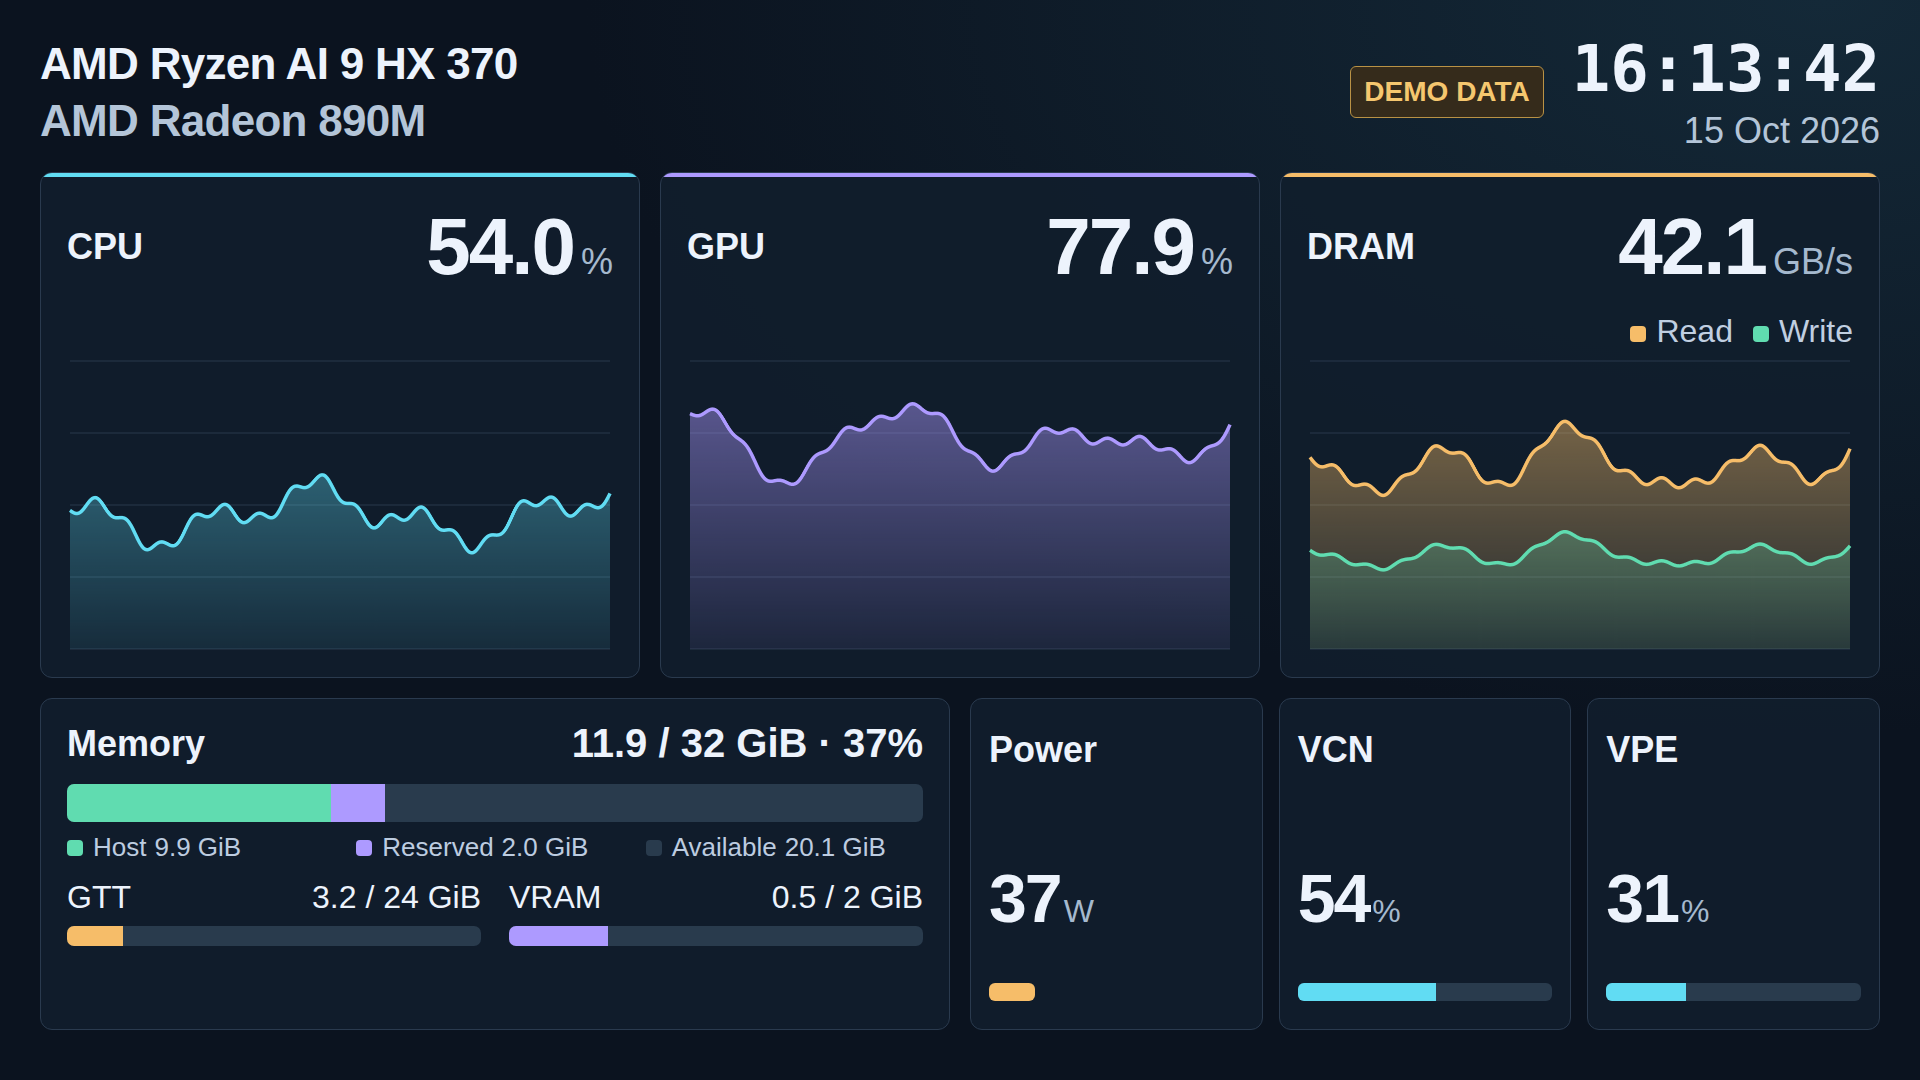
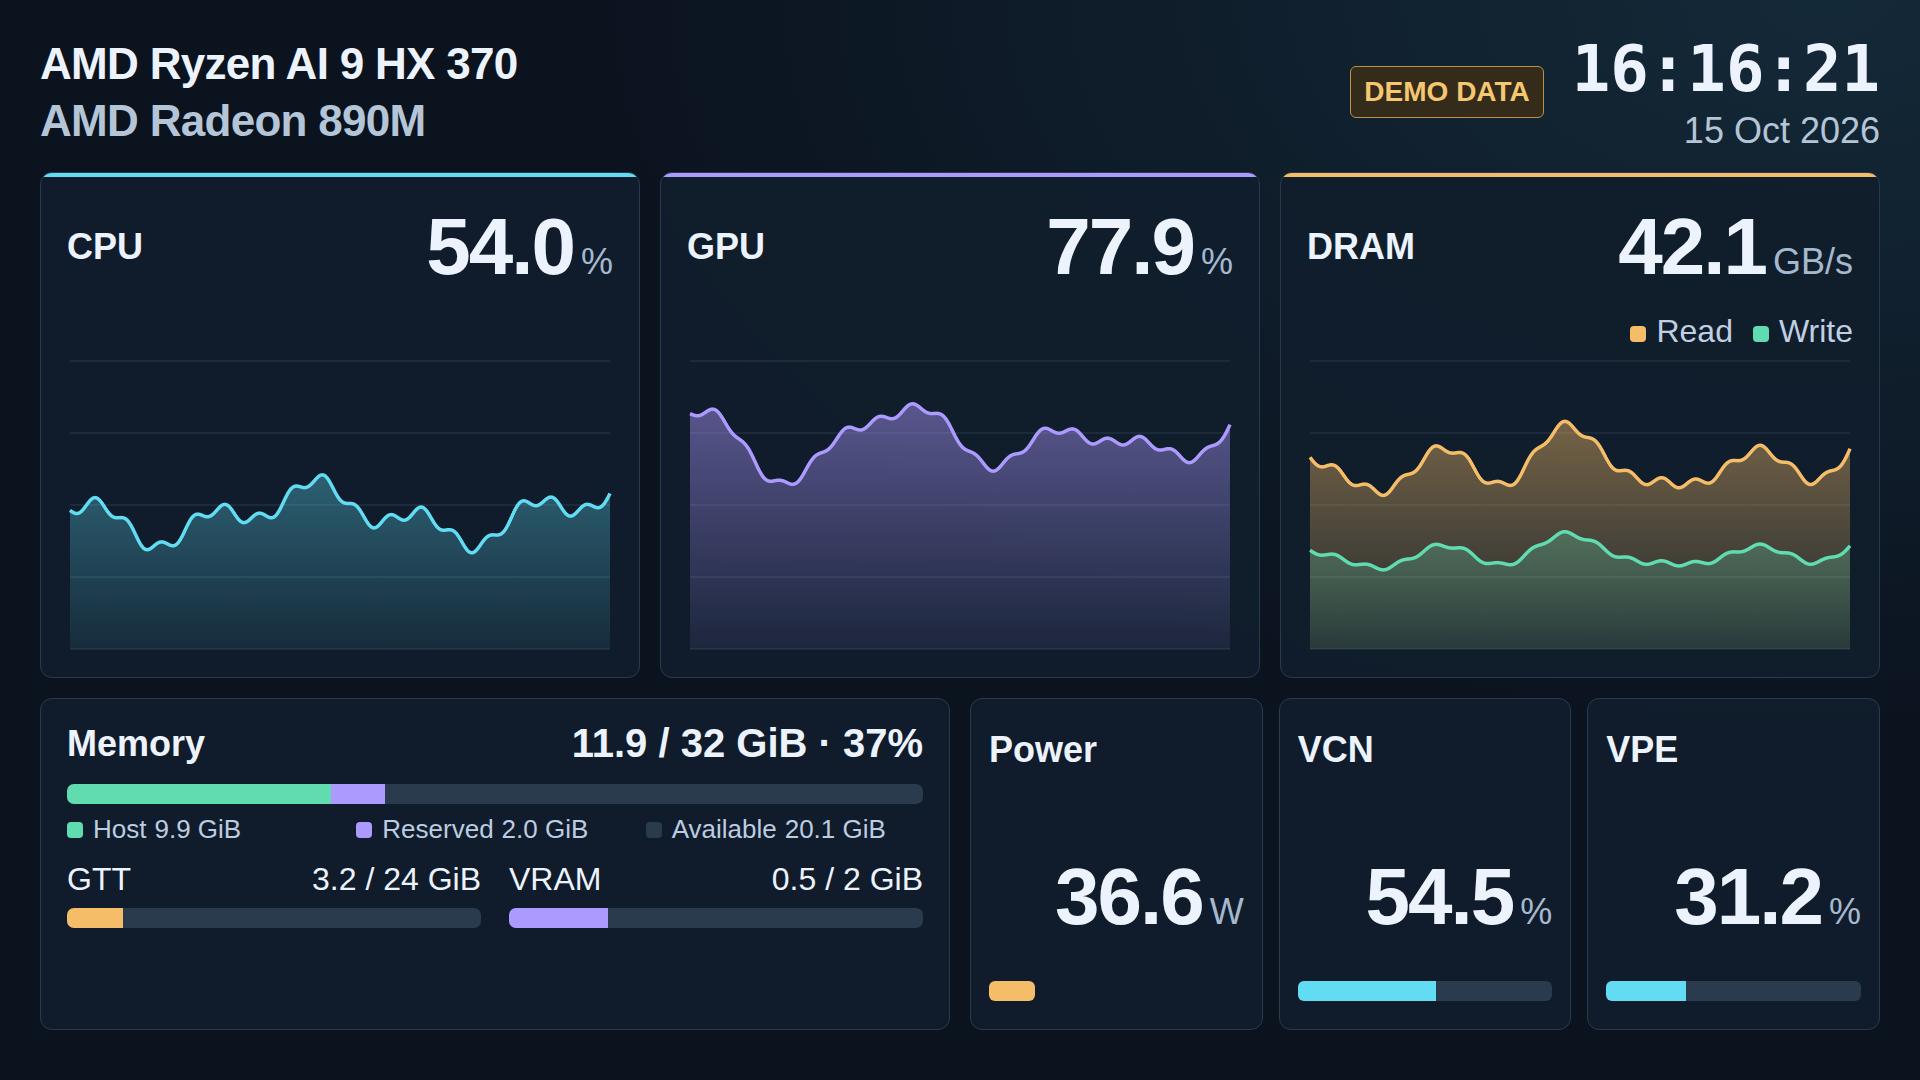
Unify dashboard bar heights and engine numeric formatting

diff --git a/examples/resource-dashboard/index.html b/examples/resource-dashboard/index.html
@@ -5,7 +5,7 @@
 <meta name="viewport" content="width=device-width, initial-scale=1">
 <title>AMD APU · Resource Monitor</title>
 <style>
-:root { color-scheme: dark; font-family: Inter, "Segoe UI", sans-serif; background: #080e16; color: #edf3fc; }
+:root { --bar-height: 20px; color-scheme: dark; font-family: Inter, "Segoe UI", sans-serif; background: #080e16; color: #edf3fc; }
 * { box-sizing: border-box; }
 body { margin: 0; }
 button, select { font: inherit; color: #edf3fc; background: #162333; border: 1px solid #35465c; border-radius: 6px; padding: 8px 12px; cursor: pointer; }
@@ -40,7 +40,7 @@ canvas { display: block; width: 100%; height: 300px; }
 .memory { height: 332px; padding: 22px 26px; }
 .memory-heading { display: flex; align-items: center; justify-content: space-between; margin-bottom: 18px; }
 #memory-value { font-size: 40px; font-weight: 550; font-variant-numeric: tabular-nums; }
-.meter { display: flex; height: 38px; background: #293b4d; border-radius: 7px; overflow: hidden; }
+.meter { display: flex; height: var(--bar-height); background: #293b4d; border-radius: 7px; overflow: hidden; }
 .meter > div { height: 100%; flex: 0 0 auto; width: 0; }
 .meter.unavailable { background: repeating-linear-gradient(135deg, #293b4d 0 12px, #1a293a 12px 24px); }
 #host-meter { background: #60dcb0; } #reserved-meter { background: #ad9aff; }
@@ -49,17 +49,15 @@ canvas { display: block; width: 100%; height: 300px; }
 .memory-legend .amount { font-weight: 500; }
 .gpu-memory { display: grid; grid-template-columns: 1fr 1fr; gap: 28px; }
 .gpu-memory .row { display: flex; justify-content: space-between; align-items: center; margin-bottom: 10px; font-size: 32px; font-variant-numeric: tabular-nums; }
-.gpu-memory .meter { height: 20px; }
 #gtt-meter { background: #f6bd69; } #vram-meter { background: #ad9aff; }
 .engines { display: grid; grid-template-columns: repeat(3, 1fr); gap: 16px; }
 .engine { height: 332px; padding: 28px 18px; display: flex; flex-direction: column; justify-content: space-between; }
 .engine h2 { line-height: 1.25; min-height: 86px; }
-.engine .number { font-size: 68px; letter-spacing: -2px; }
-.engine .number small { font-size: 32px; margin-left: 3px; }
-.engine-meter { height: 18px; background: #293b4d; border-radius: 6px; overflow: hidden; }
+.engine .number { width: 100%; text-align: right; }
+.engine-meter { height: var(--bar-height); background: #293b4d; border-radius: 6px; overflow: hidden; }
 .engine-meter div { height: 100%; width: 0; background: #61dcf3; }
 .engine-meter.unavailable { background: repeating-linear-gradient(135deg, #293b4d 0 10px, #1a293a 10px 20px); }
-.power-mark { height: 18px; width: 46px; border-radius: 6px; background: #f6bd69; }
+.power-mark { height: var(--bar-height); width: 46px; border-radius: 6px; background: #f6bd69; }
 body.video .controls { display: none; }
 </style>
 </head>
@@ -205,12 +203,12 @@ body.video .controls { display: none; }
     $('gpu-value').textContent = format(s.gpuPct);
     $('dram-value').textContent = format(total);
     memory(s);
-    $('socket-value').textContent = format(s.socketW, '', 0);
+    $('socket-value').textContent = format(s.socketW, '', 1);
     for (const engine of ['vcn', 'vpe']) {
       const value = s[engine + 'Pct'];
       const known = valid(value) && value >= 0 && value <= 100;
-      $(engine + '-value').textContent = format(known ? value : null, '', 0);
-      meter(engine + '-track', [[engine + '-meter', value]], known, engine.toUpperCase() + ' utilization: ' + (known ? format(value, '%', 0) : 'unavailable'));
+      $(engine + '-value').textContent = format(known ? value : null, '', 1);
+      meter(engine + '-track', [[engine + '-meter', value]], known, engine.toUpperCase() + ' utilization: ' + (known ? format(value, '%', 1) : 'unavailable'));
     }
     const d = new Date(s.timestampMs);
     $('clock').textContent = d.toLocaleTimeString('en-GB', {hour12: false});
